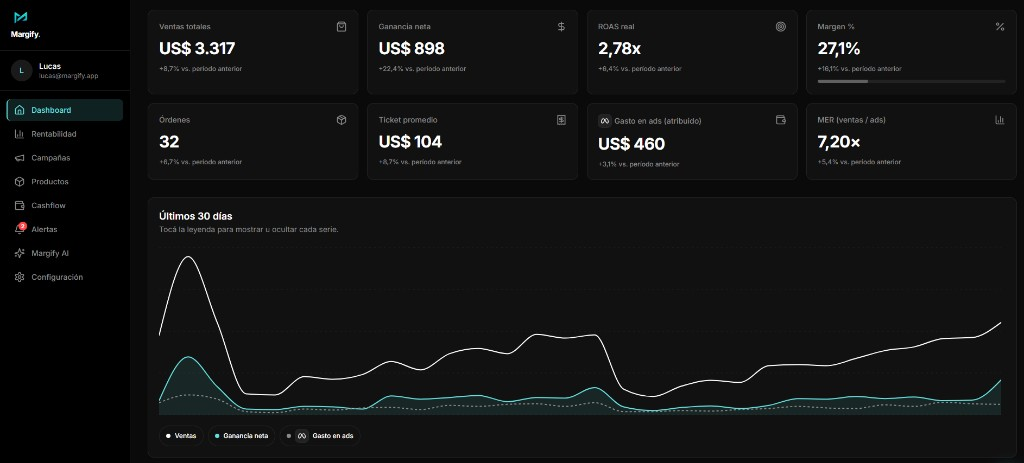
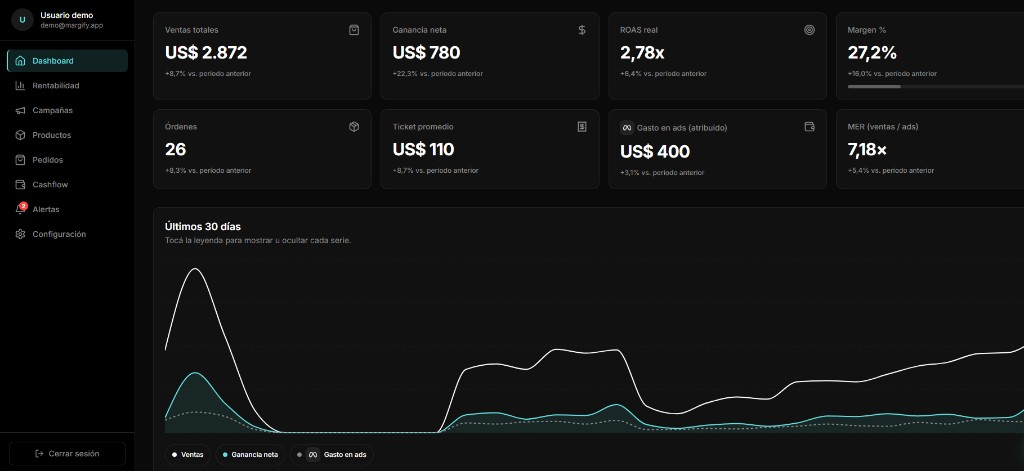
chore(landing): actualizar captura hero del dashboard

diff --git a/app/page.tsx b/app/page.tsx
@@ -124,17 +124,17 @@ export default function LandingPage() {
 
                 <div className="relative flex min-h-0 min-w-0 flex-col justify-center lg:row-span-2 lg:min-h-full lg:pt-7">
                   <div
-                    className="relative w-full overflow-hidden rounded-2xl border border-margify-border/70 bg-margify-black/50 shadow-[0_28px_100px_rgba(0,0,0,0.55),0_0_0_1px_rgba(255,255,255,0.04)_inset] ring-1 ring-white/[0.05]"
+                    className="relative w-full overflow-hidden rounded-2xl border border-margify-border/70 bg-[#0a0f14] shadow-[0_28px_100px_rgba(0,0,0,0.55),0_0_0_1px_rgba(255,255,255,0.04)_inset] ring-1 ring-white/[0.05]"
                     style={{ aspectRatio: "16 / 10" }}
                   >
                     <Image
                       src="/landing-dashboard-hero.png"
-                      alt="Vista del dashboard Margify: métricas de rentabilidad, gráfico y resumen de los últimos 30 días"
+                      alt="Vista del dashboard Margify: KPIs, gráfico de los últimos 30 días, sidebar con Alertas y métricas de rentabilidad"
                       fill
                       priority
                       unoptimized
-                      sizes="(min-width: 1536px) 600px, (min-width: 1024px) min(560px, 48vw), 100vw"
-                      className="object-cover object-left-top"
+                      sizes="(min-width: 1536px) 1200px, (min-width: 1024px) min(1200px, 52vw), min(100vw, 900px)"
+                      className="object-contain object-top"
                     />
                   </div>
                 </div>
